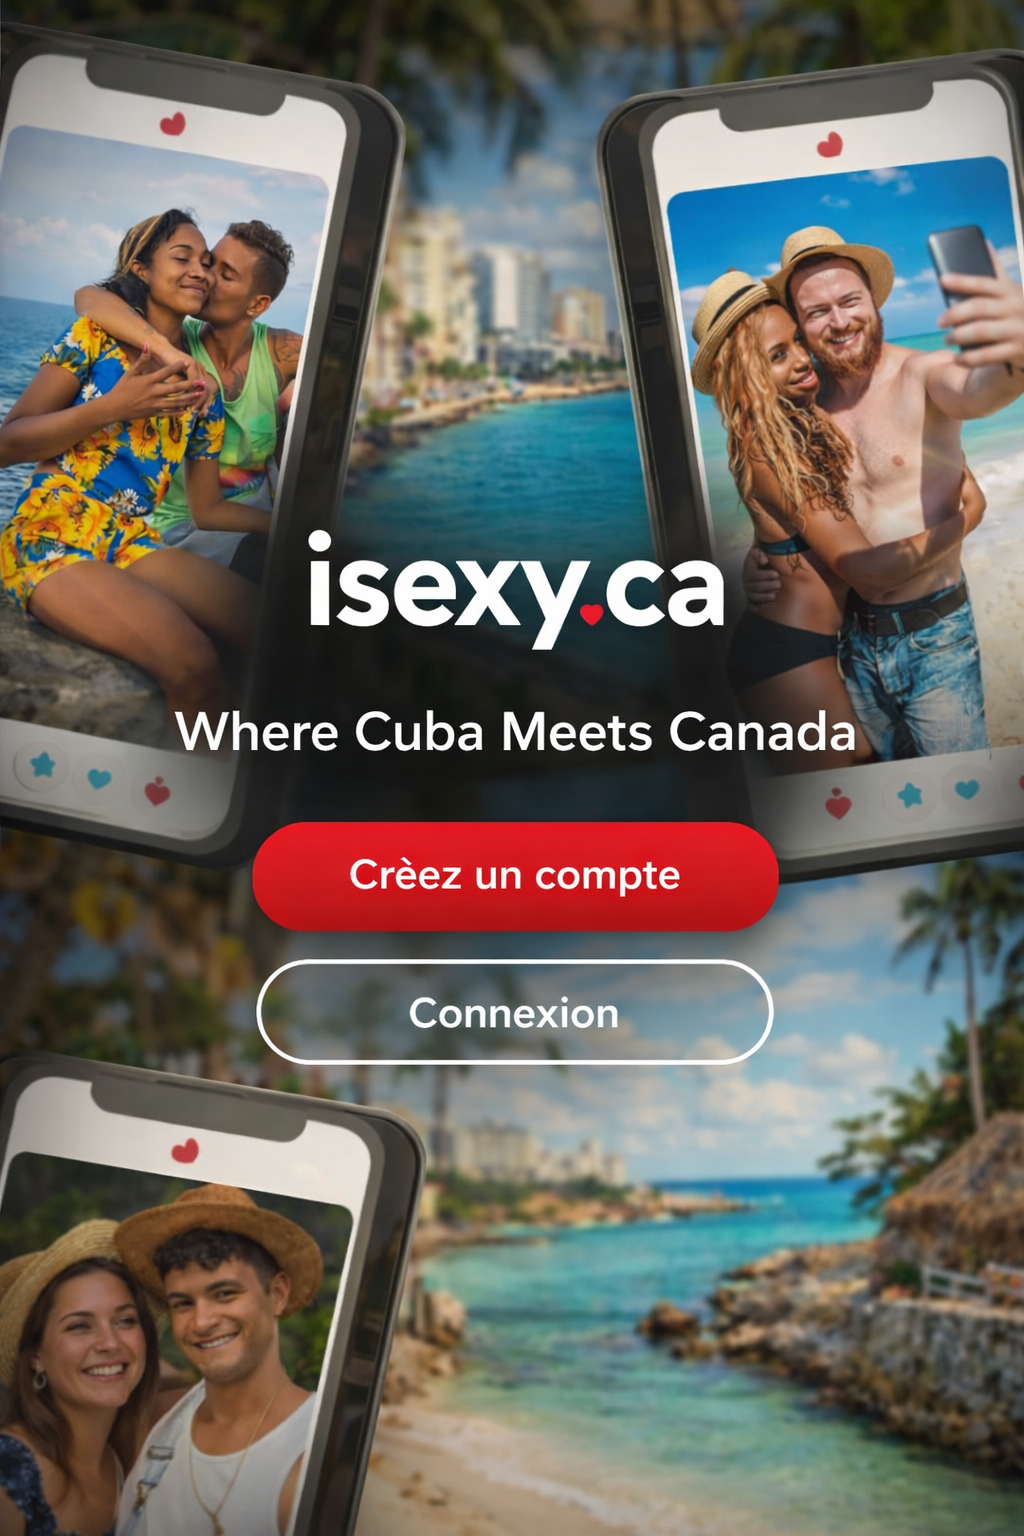
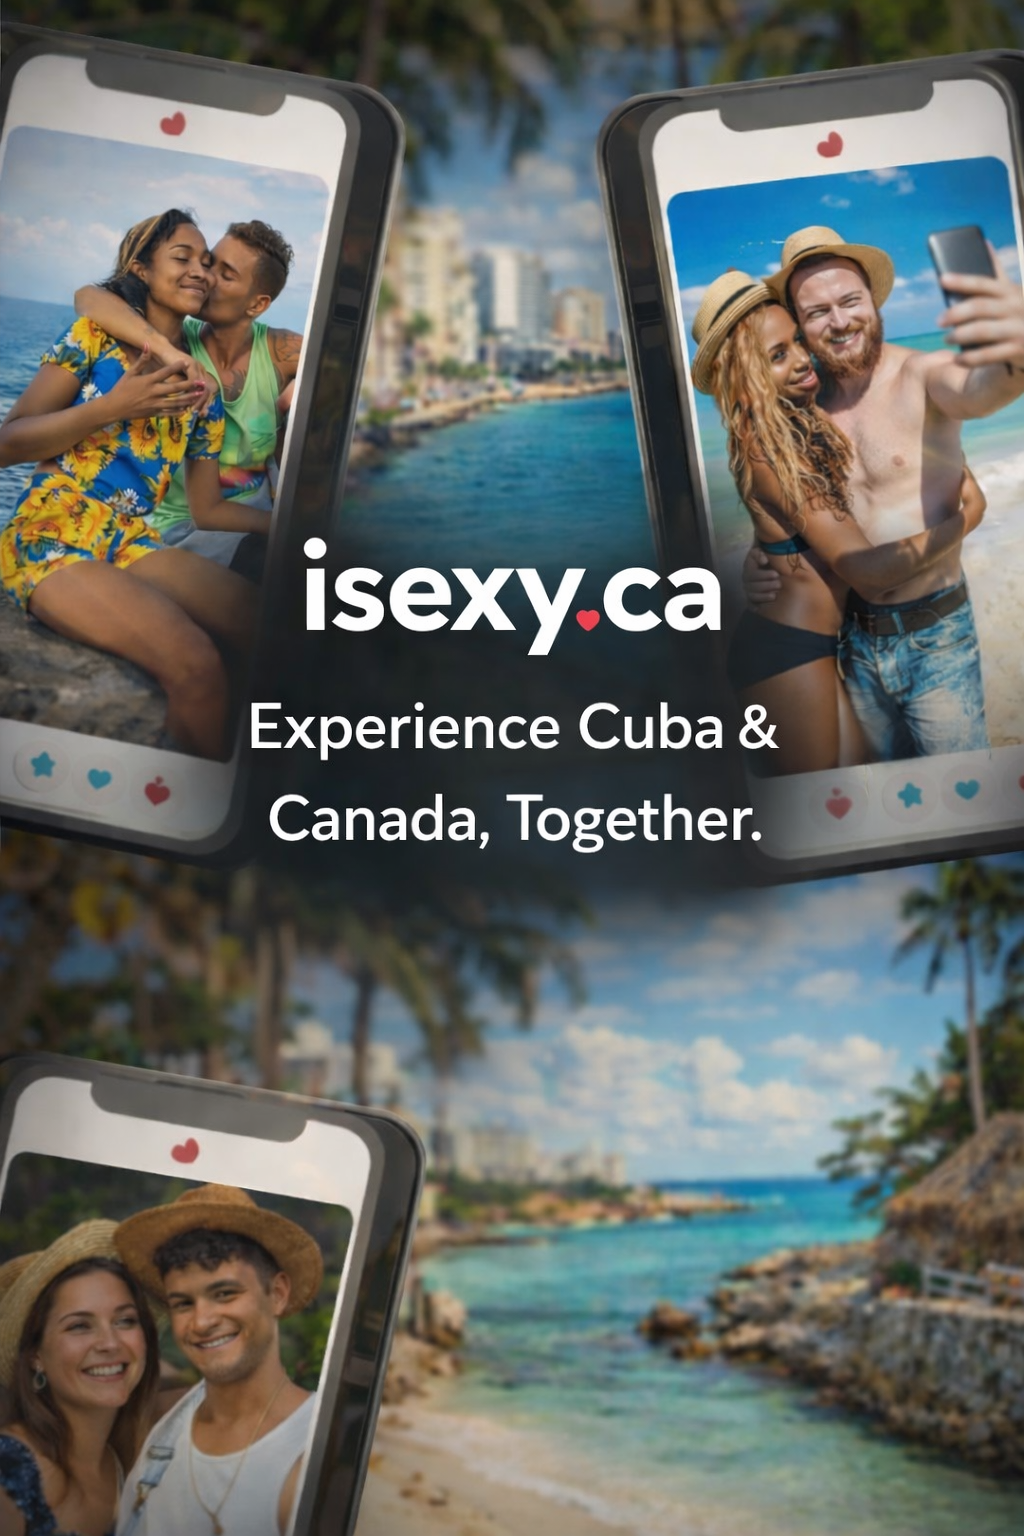
Changes

diff --git a/src/pages/Welcome.tsx b/src/pages/Welcome.tsx
@@ -201,119 +201,128 @@ export default function Welcome() {
       </AnimatePresence>
 
       {/* Hero Section */}
-      <section className="relative min-h-[100vh] flex flex-col justify-center px-6 py-20">
-        {/* Background hero image */}
+      <section className="relative min-h-[100dvh] flex flex-col">
+        {/* Background hero image - full bleed */}
         <div className="absolute inset-0 z-0">
           <img
             src="/images/hero-bg.png"
-            alt="ISEXY.CA - Where Cuba Meets Canada"
+            alt="ISEXY.CA - Experience Cuba & Canada, Together"
             className="w-full h-full object-cover"
+            loading="eager"
           />
-          <div className="absolute inset-0 bg-foreground/30" />
+          {/* Bottom gradient for readability over image */}
+          <div className="absolute inset-0 bg-gradient-to-b from-foreground/10 via-transparent to-foreground/90" />
         </div>
 
-        <div className="max-w-lg mx-auto relative z-10 w-full">
-          <motion.div
-            initial={{ opacity: 0, y: 30 }}
-            animate={{ opacity: 1, y: 0 }}
-            transition={{ duration: 0.7 }}
-            className="text-center mb-6"
-          >
-            <h1 className="text-5xl md:text-7xl font-extrabold leading-[1.1] mb-3 tracking-tight lowercase">
-              isexy<span className="text-primary">.</span>ca
-            </h1>
-            <p className="text-primary-foreground/90 text-xl md:text-2xl font-semibold">
-              Where Cuba Meets Canada
-            </p>
-          </motion.div>
+        {/* Spacer to push content down */}
+        <div className="flex-1" />
 
-          {/* Create Account + Login */}
-          <motion.div
-            initial={{ opacity: 0, y: 20 }}
-            animate={{ opacity: 1, y: 0 }}
-            transition={{ duration: 0.6, delay: 0.3 }}
-            className="space-y-3 mb-6"
-          >
-            <button
-              onClick={() => navigate("/signup")}
-              className="w-full py-4 bg-primary-foreground text-foreground font-bold rounded-full text-base hover:bg-primary-foreground/90 transition-colors"
+        {/* Bottom content overlay */}
+        <div className="relative z-10 px-6 pb-8 pt-16">
+          <div className="max-w-md mx-auto w-full space-y-5">
+            {/* Brand */}
+            <motion.div
+              initial={{ opacity: 0, y: 20 }}
+              animate={{ opacity: 1, y: 0 }}
+              transition={{ duration: 0.6 }}
+              className="text-center"
             >
-              Create account
-            </button>
-            <button
-              onClick={() => navigate("/auth")}
-              className="w-full py-4 border border-primary-foreground/30 text-primary-foreground font-bold rounded-full text-base hover:bg-primary-foreground/5 transition-colors"
+              <h1 className="text-4xl md:text-5xl font-extrabold leading-tight tracking-tight lowercase text-primary-foreground">
+                isexy<span className="text-primary">.</span>ca
+              </h1>
+              <p className="text-primary-foreground/80 text-base md:text-lg font-medium mt-1">
+                Experience Cuba & Canada, Together.
+              </p>
+            </motion.div>
+
+            {/* CTA Buttons */}
+            <motion.div
+              initial={{ opacity: 0, y: 15 }}
+              animate={{ opacity: 1, y: 0 }}
+              transition={{ duration: 0.5, delay: 0.2 }}
+              className="space-y-3"
             >
-              Log in
-            </button>
-          </motion.div>
+              <button
+                onClick={() => navigate("/signup")}
+                className="w-full py-3.5 bg-primary text-primary-foreground font-bold rounded-full text-base shadow-lg hover:brightness-110 transition-all active:scale-[0.98]"
+              >
+                Create account
+              </button>
+              <button
+                onClick={() => navigate("/auth")}
+                className="w-full py-3.5 border-2 border-primary-foreground/80 text-primary-foreground font-bold rounded-full text-base hover:bg-primary-foreground/10 transition-all active:scale-[0.98] backdrop-blur-sm"
+              >
+                Log in
+              </button>
+            </motion.div>
 
-          {/* Or sign in with */}
-          <motion.div
-            initial={{ opacity: 0, y: 20 }}
-            animate={{ opacity: 1, y: 0 }}
-            transition={{ duration: 0.6, delay: 0.4 }}
-            className="space-y-3 mb-6"
-          >
-            <div className="flex items-center gap-3 mb-2">
-              <div className="flex-1 h-px bg-primary-foreground/10" />
-              <span className="text-primary-foreground/40 text-xs">or sign in with</span>
-              <div className="flex-1 h-px bg-primary-foreground/10" />
-            </div>
-            <div className="flex gap-3">
-              <button
-                onClick={() => navigate("/auth")}
-                className="flex-1 py-3 border border-primary-foreground/20 rounded-full flex items-center justify-center gap-2 hover:bg-primary-foreground/5 transition-colors"
-              >
-                <GoogleIcon />
-                <span className="text-sm font-medium">Google</span>
-              </button>
-              <button
-                onClick={() => navigate("/auth")}
-                className="flex-1 py-3 border border-primary-foreground/20 rounded-full flex items-center justify-center gap-2 hover:bg-primary-foreground/5 transition-colors"
-              >
-                <FacebookIcon />
-                <span className="text-sm font-medium">Facebook</span>
-              </button>
-              <button
-                onClick={() => navigate("/auth")}
-                className="flex-1 py-3 border border-primary-foreground/20 rounded-full flex items-center justify-center gap-2 hover:bg-primary-foreground/5 transition-colors"
-              >
-                <PhoneIcon />
-                <span className="text-sm font-medium">Phone</span>
-              </button>
-            </div>
-          </motion.div>
-
-          {/* Cuban Registration CTA */}
-          <motion.div
-            initial={{ opacity: 0, y: 20 }}
-            animate={{ opacity: 1, y: 0 }}
-            transition={{ duration: 0.6, delay: 0.5 }}
-            className="bg-primary/10 border border-primary/20 rounded-2xl p-5 mb-6"
-          >
-            <div className="flex items-center gap-3 mb-3">
-              <span className="text-2xl">🇨🇺</span>
-              <div>
-                <p className="font-bold text-sm">Cuban? Sign up FREE</p>
-                <p className="text-primary-foreground/60 text-xs">Get verified and start connecting</p>
+            {/* Social sign-in */}
+            <motion.div
+              initial={{ opacity: 0, y: 15 }}
+              animate={{ opacity: 1, y: 0 }}
+              transition={{ duration: 0.5, delay: 0.35 }}
+              className="space-y-3"
+            >
+              <div className="flex items-center gap-3">
+                <div className="flex-1 h-px bg-primary-foreground/20" />
+                <span className="text-primary-foreground/50 text-xs font-medium">or sign in with</span>
+                <div className="flex-1 h-px bg-primary-foreground/20" />
               </div>
-            </div>
-            <button
-              onClick={() => navigate("/cuban-signup")}
-              className="w-full py-3 bg-primary text-primary-foreground font-bold rounded-xl hover:bg-primary/90 transition-colors text-sm"
-            >
-              Cuban Registration (Free)
-            </button>
-          </motion.div>
+              <div className="flex gap-3">
+                <button
+                  onClick={() => navigate("/auth")}
+                  className="flex-1 py-3 border border-primary-foreground/30 rounded-full flex items-center justify-center gap-2 hover:bg-primary-foreground/10 transition-colors backdrop-blur-sm"
+                >
+                  <GoogleIcon />
+                  <span className="text-sm font-medium">Google</span>
+                </button>
+                <button
+                  onClick={() => navigate("/auth")}
+                  className="flex-1 py-3 border border-primary-foreground/30 rounded-full flex items-center justify-center gap-2 hover:bg-primary-foreground/10 transition-colors backdrop-blur-sm"
+                >
+                  <FacebookIcon />
+                  <span className="text-sm font-medium">Facebook</span>
+                </button>
+                <button
+                  onClick={() => navigate("/auth")}
+                  className="flex-1 py-3 border border-primary-foreground/30 rounded-full flex items-center justify-center gap-2 hover:bg-primary-foreground/10 transition-colors backdrop-blur-sm"
+                >
+                  <PhoneIcon />
+                  <span className="text-sm font-medium">Phone</span>
+                </button>
+              </div>
+            </motion.div>
 
-          {/* Terms */}
-          <p className="text-center text-primary-foreground/40 text-xs leading-relaxed">
-            By continuing you agree to our{" "}
-            <Link to="/terms" className="underline hover:text-primary-foreground/60">Terms</Link>,{" "}
-            <Link to="/privacy" className="underline hover:text-primary-foreground/60">Privacy Policy</Link> &{" "}
-            <Link to="/cookies" className="underline hover:text-primary-foreground/60">Cookies Policy</Link>.
-          </p>
+            {/* Cuban Registration */}
+            <motion.div
+              initial={{ opacity: 0, y: 15 }}
+              animate={{ opacity: 1, y: 0 }}
+              transition={{ duration: 0.5, delay: 0.45 }}
+              className="bg-foreground/60 backdrop-blur-md border border-primary/30 rounded-2xl p-4"
+            >
+              <div className="flex items-center gap-3 mb-3">
+                <span className="text-xl">🇨🇺</span>
+                <div>
+                  <p className="font-bold text-sm text-primary-foreground">Cuban? Sign up FREE</p>
+                  <p className="text-primary-foreground/60 text-xs">Get verified and start connecting</p>
+                </div>
+              </div>
+              <button
+                onClick={() => navigate("/cuban-signup")}
+                className="w-full py-2.5 bg-primary text-primary-foreground font-bold rounded-xl hover:brightness-110 transition-all text-sm active:scale-[0.98]"
+              >
+                Cuban Registration (Free)
+              </button>
+            </motion.div>
+
+            {/* Terms */}
+            <p className="text-center text-primary-foreground/40 text-[10px] leading-relaxed pb-2">
+              By continuing you agree to our{" "}
+              <Link to="/terms" className="underline hover:text-primary-foreground/60">Terms</Link>,{" "}
+              <Link to="/privacy" className="underline hover:text-primary-foreground/60">Privacy Policy</Link> &{" "}
+              <Link to="/cookies" className="underline hover:text-primary-foreground/60">Cookies Policy</Link>.
+            </p>
+          </div>
         </div>
       </section>
 
